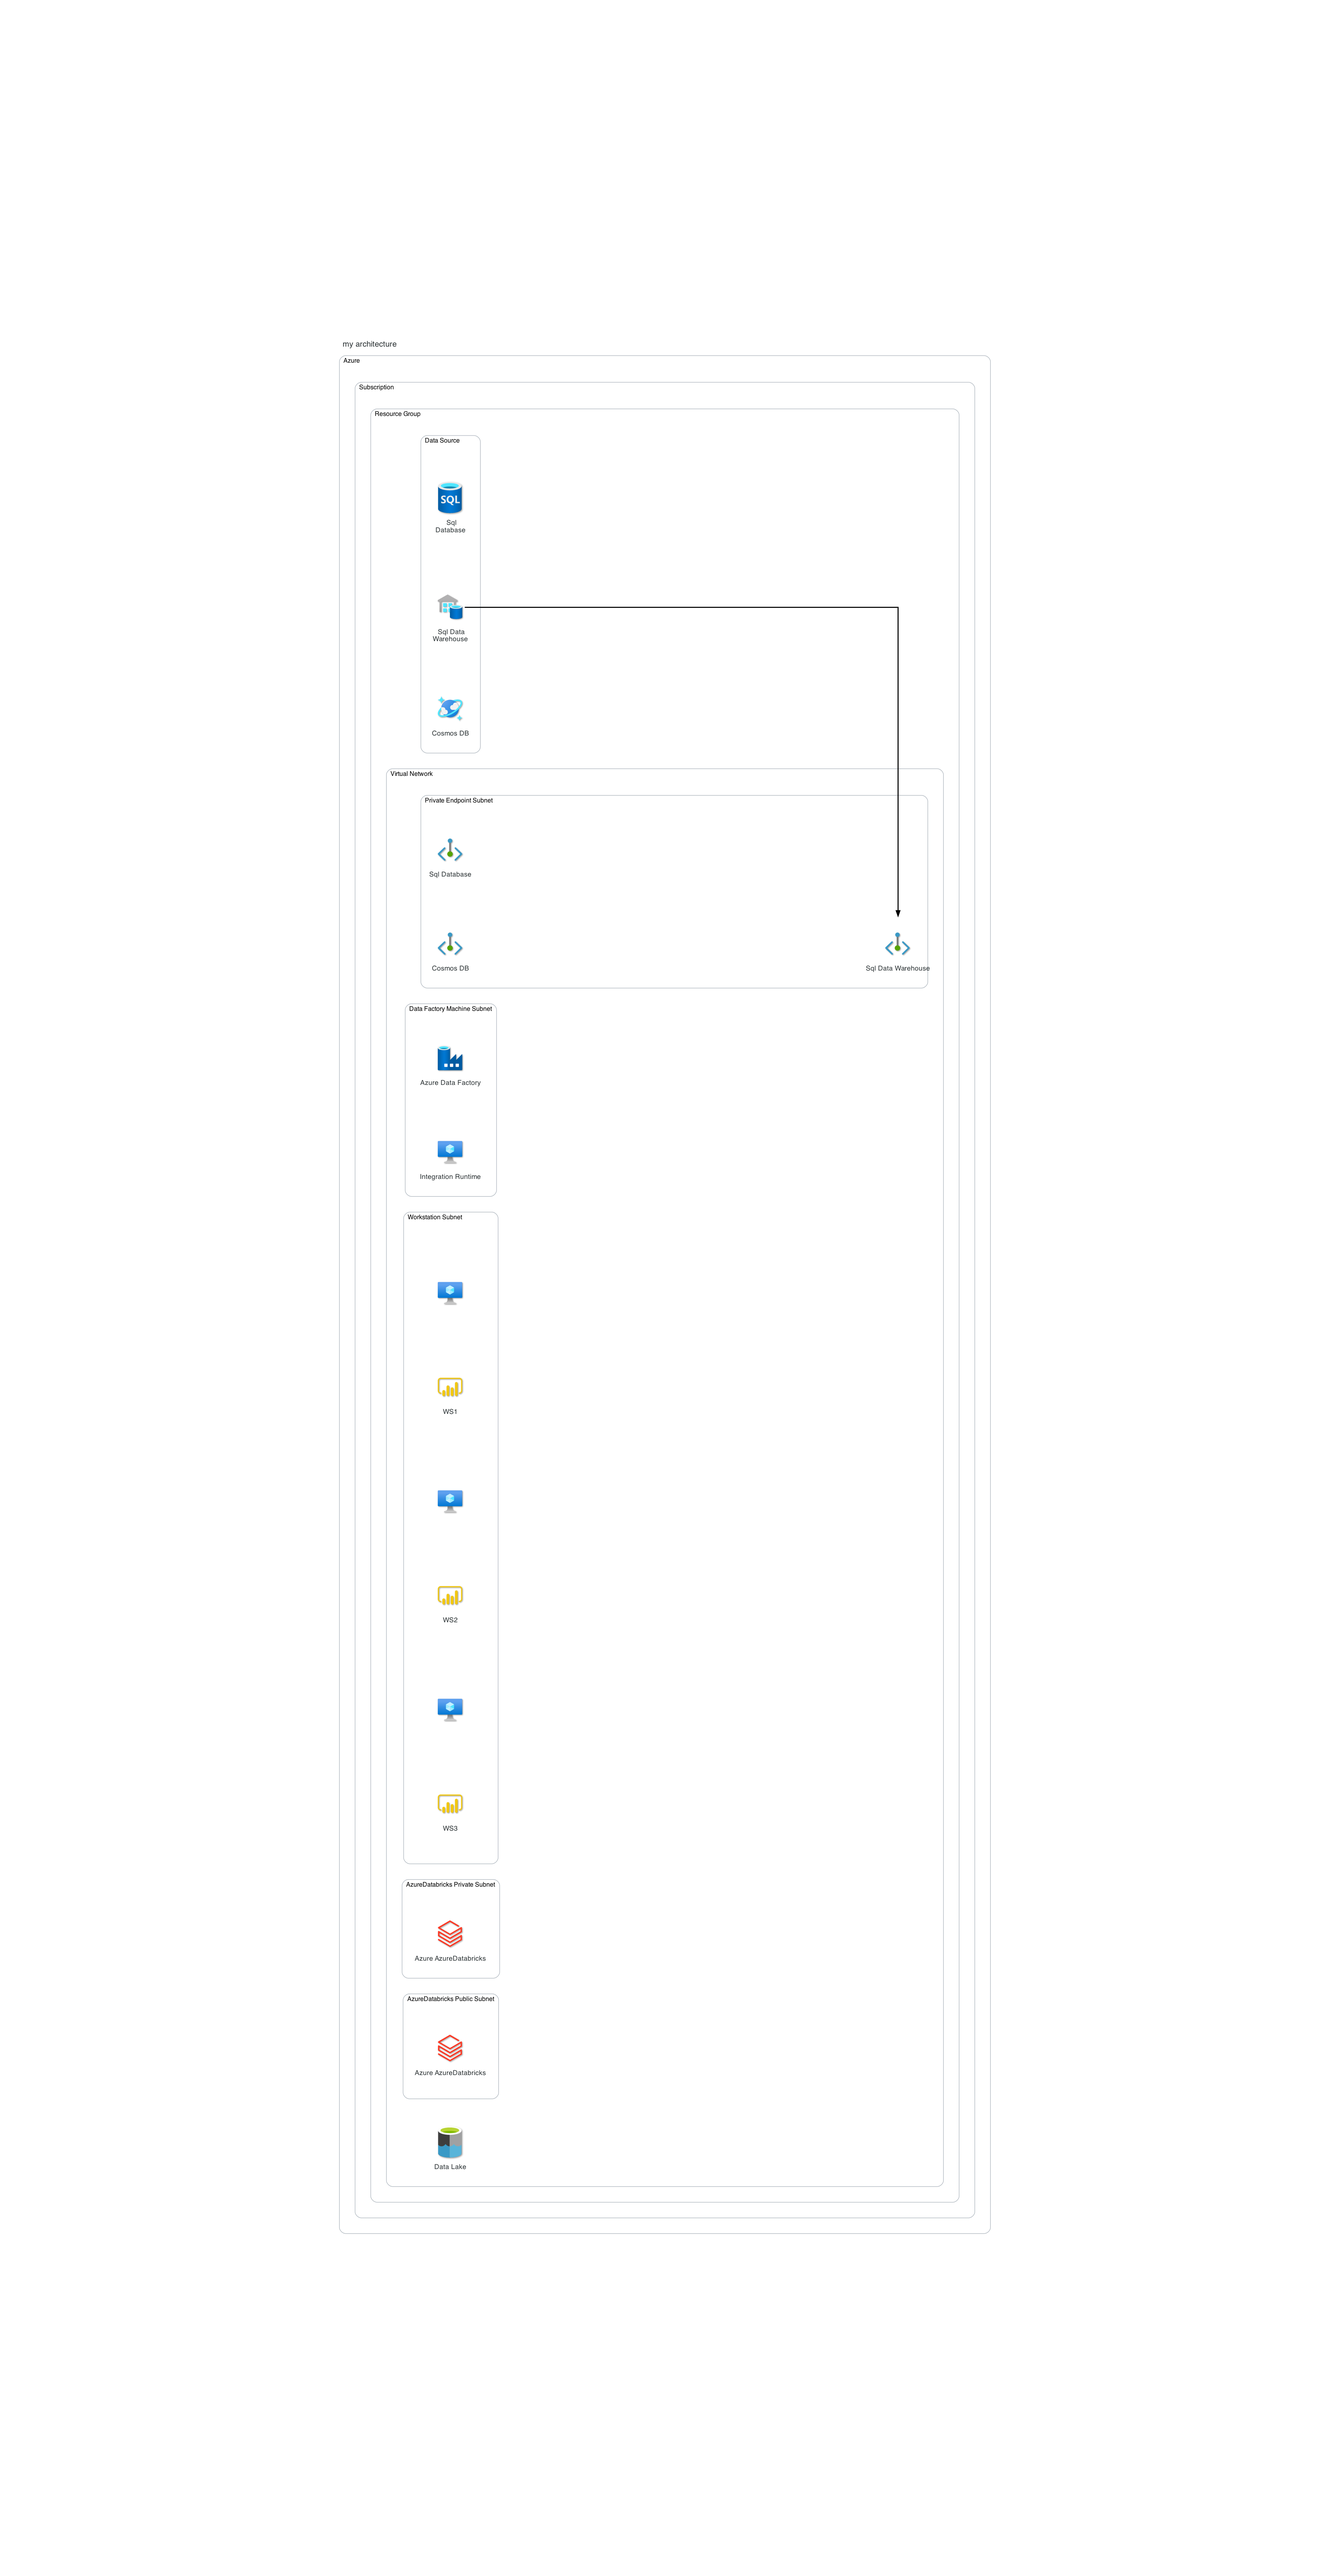
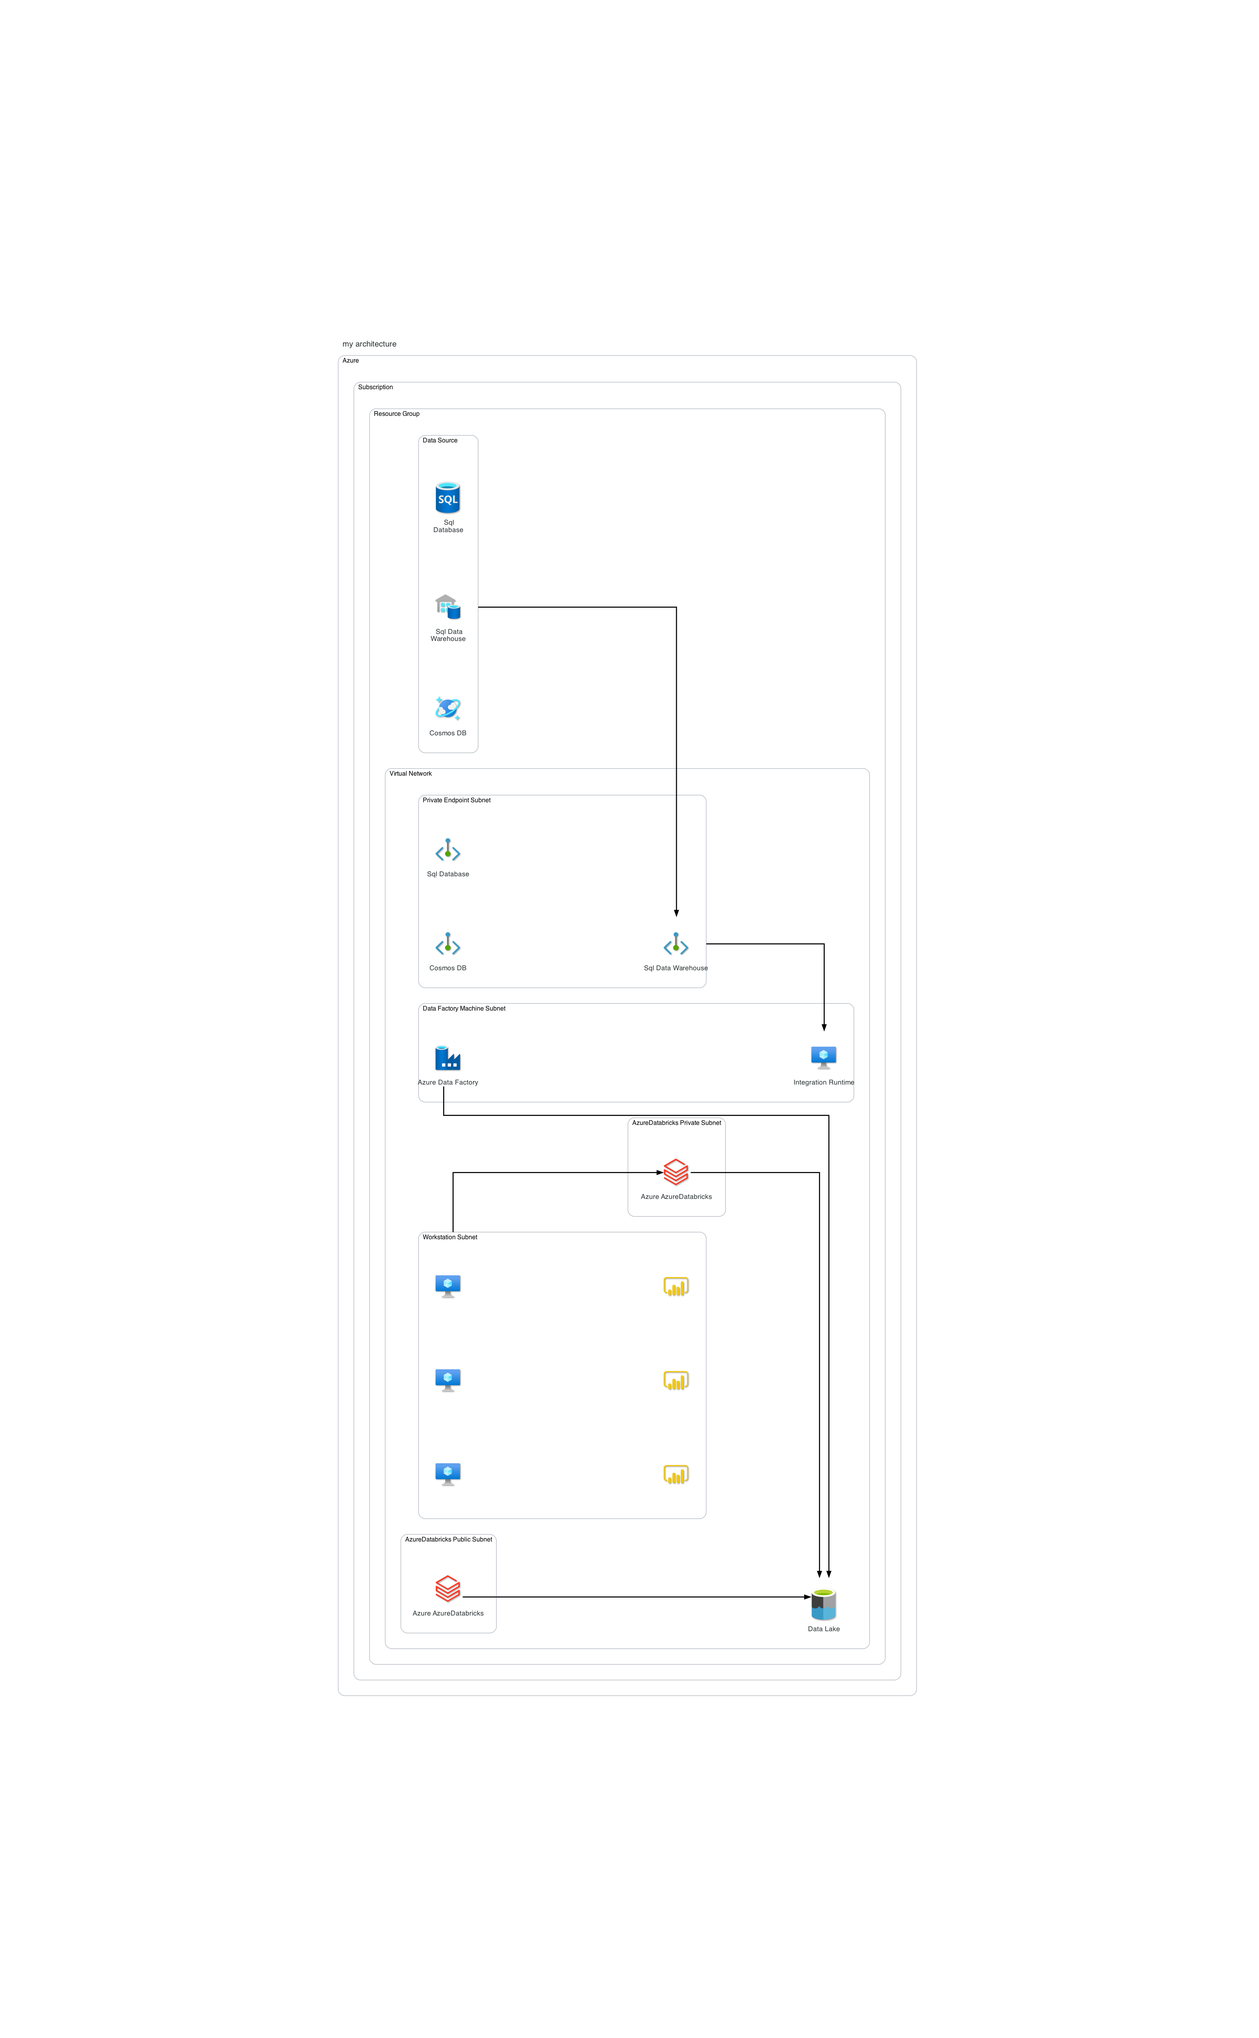
created prototype showing how clusters can be passed directly to the edge class to connect them.  some refactoring will still be required.

diff --git a/architectures/core/__init__.py b/architectures/core/__init__.py
@@ -9,6 +9,7 @@ from architectures.themes import Default
 
 __graph = contextvars.ContextVar("graph")
 __cluster = contextvars.ContextVar("cluster")
+__node = contextvars.ContextVar("node")
 
 def get_graph():
     try:
@@ -24,6 +25,16 @@ def set_graph(graph):
 def get_cluster():
     try:
         return __cluster.get()
+    except LookupError:
+        return None
+
+
+def set_node(node):
+    __node.set(node)
+
+def get_node():
+    try:
+        return __node.get()
     except LookupError:
         return None
 
@@ -240,7 +251,7 @@ class Node():
     """
 
     _provider = None
-    __service_type = None
+    _service_type = None
 
     _icon_dir = None
     _icon = None
@@ -282,6 +293,19 @@ class Node():
         else:
             self._graph.node(self._id, self.label, **self.node_attrs)
 
+        # TESTING
+        node_dict = get_node()
+        if node_dict is None:
+            node_dict = {self._cluster: [self]}
+            set_node(node_dict)
+        elif self._cluster not in node_dict:
+            node_dict.update({self._cluster: [self]})
+        else:
+            node_list = node_dict[self._cluster]
+            node_list.append([self])
+            node_dict.update({self._cluster: node_list})
+            set_node(node_dict)
+
     @property
     def node_id(self):
         return self._id
@@ -307,10 +331,10 @@ class Edge():
         :param attrs: Other edge attributes.
         """
         if start_node is not None:
-            assert isinstance(start_node, (Node, list))
+            assert isinstance(start_node, (Cluster, Node, list))
 
         if end_node is not None:
-            assert isinstance(end_node, (Node, list))
+            assert isinstance(end_node, (Cluster, Node, list))
 
         self.start_node = start_node
         self.end_node = end_node
@@ -338,5 +362,14 @@ class Edge():
         else:
             self._node = end_node
 
-        # Create the edge between nodes
-        self._node._graph.edge(start_node, end_node, **self.edge_attrs)
+        if isinstance(start_node, Cluster):
+            cluster = start_node
+            node_dict = get_node()
+            center_node_index = round(len(node_dict[start_node])/2) - 1
+            start_node = node_dict[start_node][center_node_index][0]
+            print(start_node._id)
+            self.edge_attrs.update({"ltail": cluster.name})
+            self._node._graph.edge(start_node, end_node, **self.edge_attrs)
+        else:
+            # Create the edge between nodes
+            self._node._graph.edge(start_node, end_node, **self.edge_attrs)

diff --git a/big-data.py b/big-data.py
@@ -10,12 +10,12 @@ from architectures.providers.azure.ai import PowerBi
 
 theme = Clean()
 
-with Graph("my architecture", theme=theme):
+with Graph("my architecture", theme=theme, show=True):
     with Cluster("Azure") as azure:
         with Cluster("Subscription") as subscription:
             with Cluster("Resource Group") as resource_group:
                 with Cluster("Data Source") as data_source:
-                    Sql_database = SqlDatabase("Sql Database")
+                    sql_database = SqlDatabase("Sql Database")
                     sql_data_warehouse = SqlDataWarehouse("Sql Data Warehouse")
                     cosmos_db = AzureCosmosDb("Cosmos DB")
                 with Cluster("Virtual Network") as virtual_network:
@@ -31,15 +31,25 @@ with Graph("my architecture", theme=theme):
                         data_factory_vm = VirtualMachine("Integration Runtime")
 
                     with Cluster("Workstation Subnet") as workstation_subnet:
-                        for i in range(3):
-                            with Group():
-                                VirtualMachine("")
-                                PowerBi(f"WS{i + 1}")
+                        vm_1 = VirtualMachine("")
+                        pbi_1 = PowerBi("")
+                        vm_2 = VirtualMachine("")
+                        pbi_2 = PowerBi("")
+                        vm_3 = VirtualMachine("")
+                        pbi_3 = PowerBi("")
 
                     with Cluster("AzureDatabricks Private Subnet") as AzureDatabricks_private_subnet:
-                        private_AzureDatabricks = AzureDatabricks("Azure AzureDatabricks")
+                        private_azure_databricks = AzureDatabricks("Azure AzureDatabricks")
 
                     with Cluster("AzureDatabricks Public Subnet") as AzureDatabricks_public_subnet:
-                        public_AzureDatabricks = AzureDatabricks("Azure AzureDatabricks")
+                        public_azure_databricks = AzureDatabricks("Azure AzureDatabricks")
 
-    Edge(sql_data_warehouse, private_endpoints[1])
+    Edge(data_source, private_endpoints[1])
+    Edge(private_endpoint_subnet, data_factory_vm)
+    Edge(data_factory, data_lake)
+    Edge(private_azure_databricks, data_lake)
+    Edge(public_azure_databricks, data_lake)
+    Edge(workstation_subnet, private_azure_databricks)
+    Edge(vm_1, pbi_1, style="invis")
+    Edge(vm_2, pbi_2, style="invis")
+    Edge(vm_3, pbi_3, style="invis")
